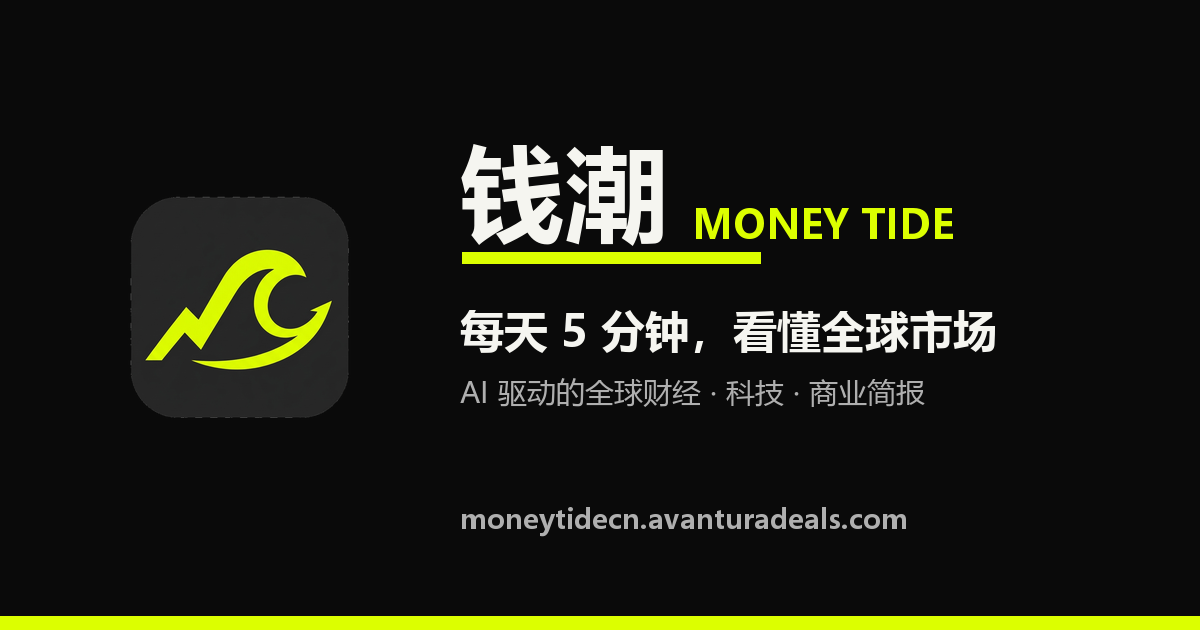
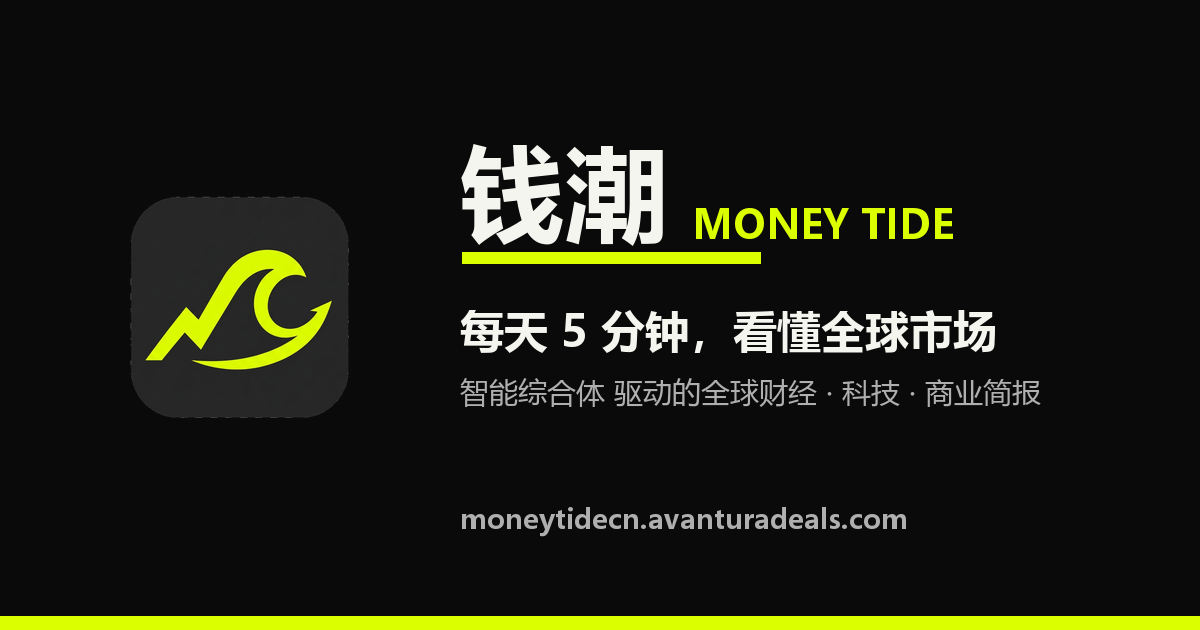
Config survives any deploy + OG image text → 智能综合体
1) app-config.php now resolves config.php from multiple locations (env var,
   in-repo, parent, grandparent as moneytide-config.php). Lets the secrets file
   live OUTSIDE the git-deployed folder so a clean/reset/re-clone deploy can
   never wipe it. First match wins; existing in-repo placement still works.

2) Regenerated og-money-tide.png with tagline "智能综合体 驱动的全球财经 ·
   科技 · 商业简报" (was "AI 驱动的…").

Changed region(s): [[0.37, 0.6032, 0.8633, 0.6635]]

diff --git a/src/app-config.php b/src/app-config.php
@@ -36,11 +36,38 @@ function app_config(?string $key = null, $default = null)
             ],
         ];
 
-        $configFile = APP_BASE_PATH . '/config.php';
-        if (is_file($configFile)) {
-            $loaded = require $configFile;
-            if (is_array($loaded)) {
-                $config = array_replace_recursive($config, $loaded);
+        // Resolve config.php from several locations, first match wins. The point
+        // is that config.php holds secrets, is gitignored, and is placed on the
+        // server by hand — so if it lives INSIDE the git-deployed app folder, a
+        // "clean" style deploy (git reset/clean, or a fresh re-clone) can wipe
+        // it. Allowing it to live OUTSIDE that folder (one or two levels up, in
+        // a non-web-served, non-git directory) makes it survive every deploy.
+        //
+        //   1. $MONEYTIDE_CONFIG env var (explicit override, if ever set)
+        //   2. <app>/config.php                  (in-repo — convenient)
+        //   3. <parent>/moneytide-config.php     (above the app folder)
+        //   4. <grandparent>/moneytide-config.php (domain root — safest)
+        $candidates = [];
+        $envCfg = getenv('MONEYTIDE_CONFIG');
+        if (is_string($envCfg) && $envCfg !== '') {
+            $candidates[] = $envCfg;
+        }
+        $candidates[] = APP_BASE_PATH . '/config.php';
+        $parent = dirname(APP_BASE_PATH);
+        if ($parent !== '' && $parent !== APP_BASE_PATH) {
+            $candidates[] = $parent . '/moneytide-config.php';
+            $grand = dirname($parent);
+            if ($grand !== '' && $grand !== $parent) {
+                $candidates[] = $grand . '/moneytide-config.php';
+            }
+        }
+        foreach ($candidates as $configFile) {
+            if (is_file($configFile)) {
+                $loaded = require $configFile;
+                if (is_array($loaded)) {
+                    $config = array_replace_recursive($config, $loaded);
+                }
+                break;
             }
         }
     }

diff --git a/scripts/compose_og.py b/scripts/compose_og.py
@@ -63,7 +63,7 @@ def main():
     # Tagline
     draw.text((tx, 300), "每天 5 分钟，看懂全球市场", font=f_tag, fill=WHITE)
     # Description
-    draw.text((tx, 372), "AI 驱动的全球财经 · 科技 · 商业简报", font=f_desc, fill=GREY)
+    draw.text((tx, 372), "智能综合体 驱动的全球财经 · 科技 · 商业简报", font=f_desc, fill=GREY)
     # URL near bottom
     draw.text((tx, 500), "moneytidecn.avanturadeals.com", font=f_url, fill=GREY)
 

diff --git a/public/health.php b/public/health.php
@@ -13,7 +13,7 @@ if (isset($_GET['oc']) && function_exists('opcache_reset')) {
 echo json_encode([
     'status' => 'ok',
     'app' => 'money-tide',
-    'release' => 'absolute-url-fallback',
+    'release' => 'config-multipath-og-text',
     'opcache_flushed' => $flushed,
     'checked_at' => gmdate('c'),
 ], JSON_UNESCAPED_SLASHES);
